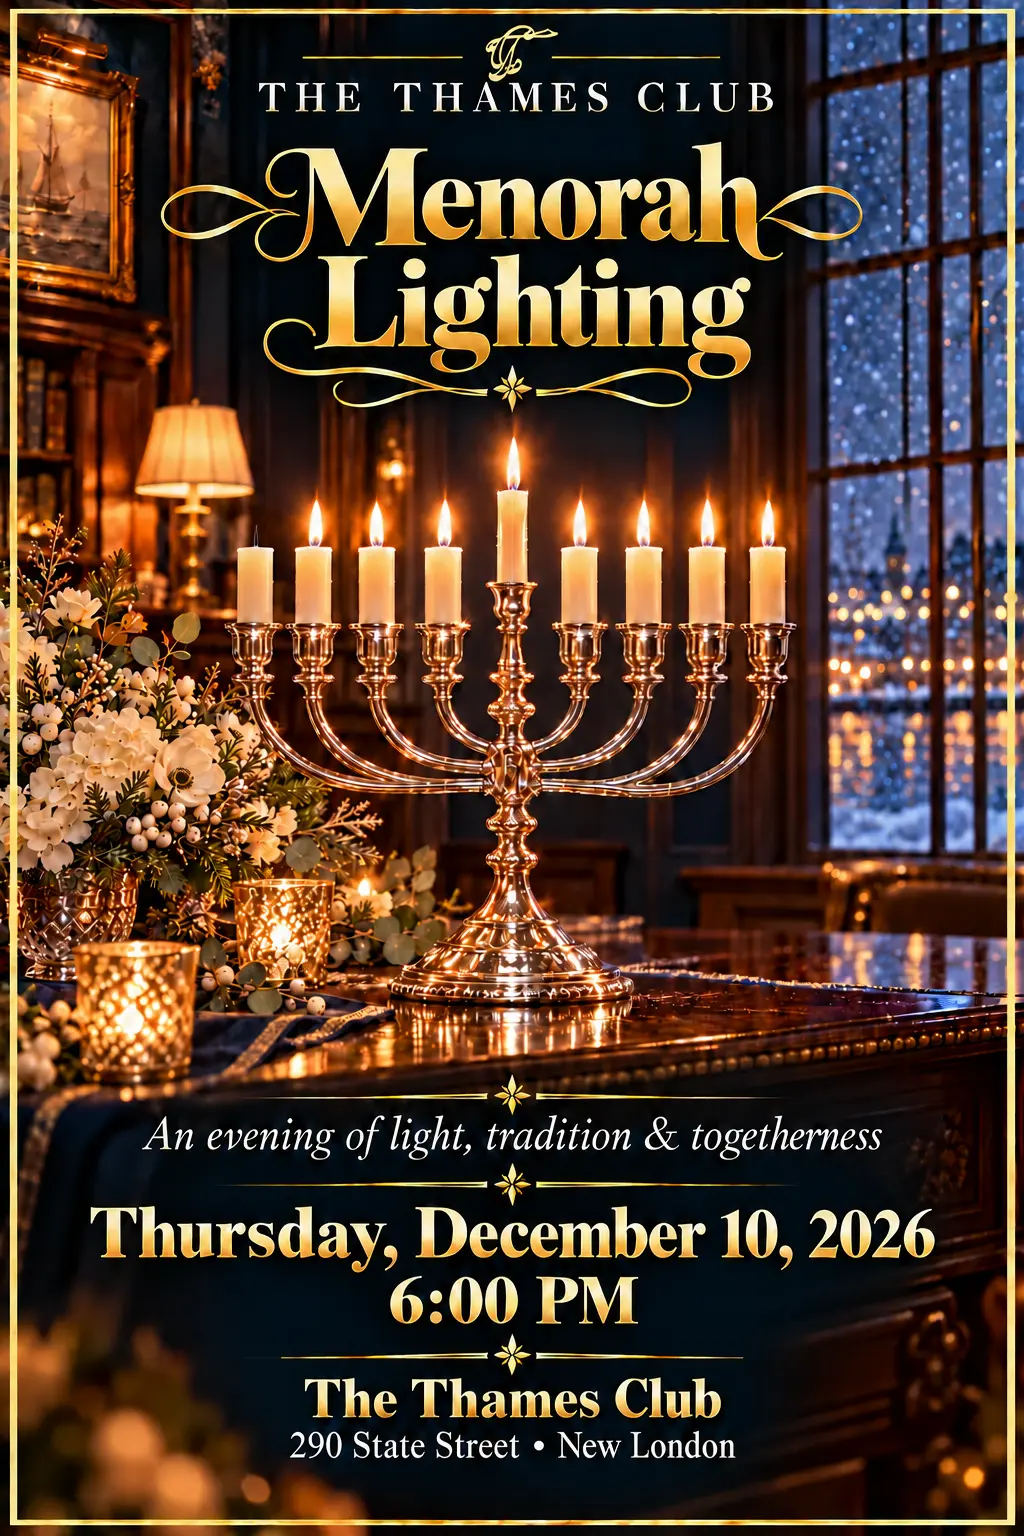
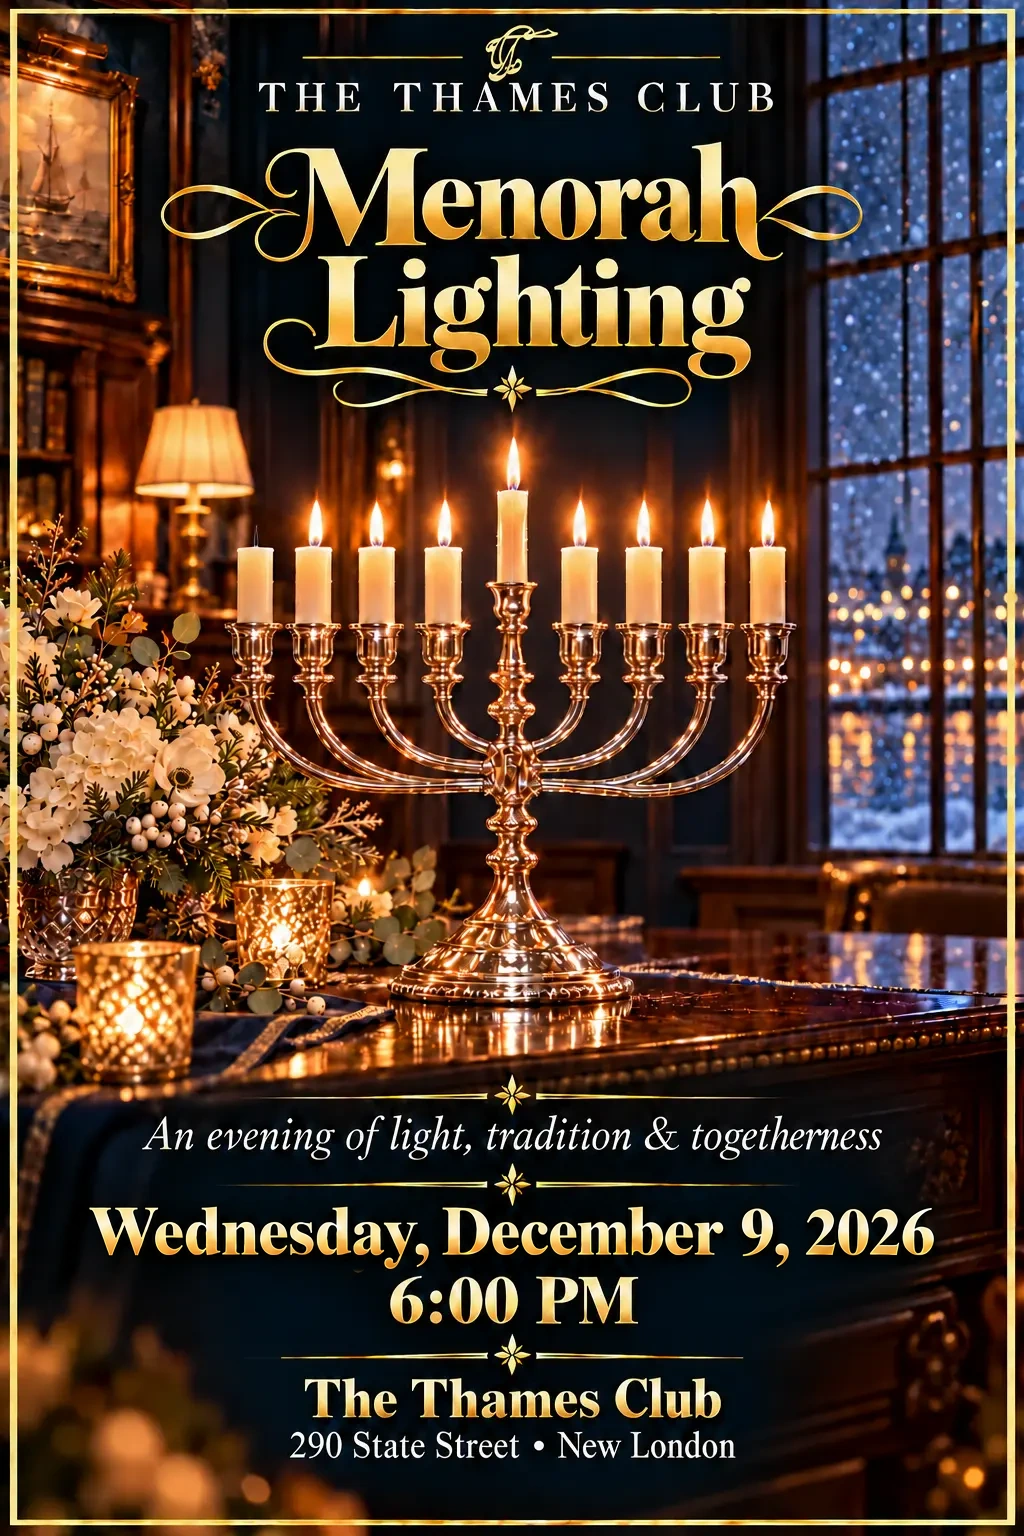
Move Menorah Lighting flyer and registration to December 9

Changed region(s): [[0.0938, 0.7812, 0.9062, 0.8438]]

diff --git a/events.html b/events.html
@@ -268,9 +268,9 @@ footer a:hover {
           <a class="event-flyer-art" href="images/holiday-dinner-2026-12-05-20261112.webp" target="_blank" rel="noopener noreferrer" aria-label="Open event details and request form"><img src="images/holiday-dinner-2026-12-05-20261112.webp" width="1024" height="1536" alt="Annual Holiday Dinner. Music by Michael Zaitchik." loading="lazy" decoding="async"></a>
           <figcaption><time datetime="2026-12-05">Saturday, December 5 · 5:30 PM</time>Annual Holiday Dinner · Music by Michael Zaitchik</figcaption>
         </figure>
-        <figure class="event-flyer" data-approval="approved" hidden data-reservation='{&quot;id&quot;: &quot;menorah-lighting-2026-12-10&quot;, &quot;title&quot;: &quot;Menorah Lighting&quot;, &quot;event_date&quot;: &quot;2026-12-10&quot;, &quot;event_time&quot;: &quot;6 PM&quot;, &quot;notes&quot;: &quot;Cash bar and complimentary light refreshments. Reservation requirements to be confirmed.&quot;, &quot;reservation_status&quot;: &quot;unknown&quot;}'>
-          <a class="event-flyer-art" href="images/menorah-lighting-2026-12-10.webp?v=gold20261025" target="_blank" rel="noopener noreferrer" aria-label="Open event details and request form"><img src="images/menorah-lighting-2026-12-10.webp?v=gold20261025" width="1024" height="1536" alt="Menorah Lighting — Thursday, December 10 · 6 PM. Cash bar and complimentary light refreshments. Reservation requirements to be confirmed." loading="lazy" decoding="async"></a>
-          <figcaption><time datetime="2026-12-10">Thursday, December 10 · 6 PM</time>Menorah Lighting</figcaption>
+        <figure class="event-flyer" data-approval="approved" hidden data-reservation='{&quot;id&quot;: &quot;menorah-lighting-2026-12-10&quot;, &quot;title&quot;: &quot;Menorah Lighting&quot;, &quot;event_date&quot;: &quot;2026-12-09&quot;, &quot;event_time&quot;: &quot;6 PM&quot;, &quot;notes&quot;: &quot;Cash bar and complimentary light refreshments. Reservation requirements to be confirmed.&quot;, &quot;reservation_status&quot;: &quot;unknown&quot;}'>
+          <a class="event-flyer-art" href="images/menorah-lighting-2026-12-09.webp" target="_blank" rel="noopener noreferrer" aria-label="Open event details and request form"><img src="images/menorah-lighting-2026-12-09.webp" width="1024" height="1536" alt="Menorah Lighting — Wednesday, December 9 · 6 PM. Cash bar and complimentary light refreshments. Reservation requirements to be confirmed." loading="lazy" decoding="async"></a>
+          <figcaption><time datetime="2026-12-09">Wednesday, December 9 · 6 PM</time>Menorah Lighting</figcaption>
         </figure>
         <figure class="event-flyer" data-approval="approved" hidden data-reservation='{&quot;id&quot;:&quot;holiday-trivia-2026-12-11&quot;,&quot;title&quot;:&quot;Holiday-Themed Trivia Night&quot;,&quot;event_date&quot;:&quot;2026-12-11&quot;,&quot;event_time&quot;:&quot;5:30 PM&quot;,&quot;notes&quot;:&quot;Dinner: Shepherd’s Pie. Dessert: Holiday Cookies.&quot;,&quot;price&quot;:&quot;$35++ per person&quot;,&quot;reservation_status&quot;:&quot;unknown&quot;}'>
           <a class="event-flyer-art" href="images/holiday-trivia-2026-12-11-20261112.webp" target="_blank" rel="noopener noreferrer" aria-label="Open event details and request form"><img src="images/holiday-trivia-2026-12-11-20261112.webp" width="1024" height="1536" alt="Holiday-Themed Trivia Night. Dinner: Shepherd’s Pie. Dessert: Holiday Cookies. $35++ per person" loading="lazy" decoding="async"></a>
@@ -404,7 +404,7 @@ footer a:hover {
     loadEvents();
   </script>
 <script defer src="reservation-tracking.js?v=20261024-submit1"></script>
-<script defer src="reservation-request.js?v=20261117-sweater"></script>
+<script defer src="reservation-request.js?v=20261124-menorah"></script>
 <script>(()=>{const refresh=()=>{const parts=new Intl.DateTimeFormat('en-US',{timeZone:'America/New_York',year:'numeric',month:'2-digit',day:'2-digit'}).formatToParts(new Date());const today=['year','month','day'].map(k=>parts.find(p=>p.type===k).value).join('-');document.querySelectorAll('[data-dining-end]').forEach(n=>n.hidden=n.dataset.diningEnd<today)};refresh();setInterval(refresh,60000)})();</script>
 </body>
 </html>

diff --git a/reservation-request.js b/reservation-request.js
@@ -87,7 +87,7 @@
     'thanksgiving-2026-11-19': {title:'Thanksgiving Dinner & Game of Chance',date:'2026-11-19',time:'5:30 PM',notes:'Tables of players rolling dice before a traditional Thanksgiving dinner.'},
     'holiday-spectacular-talk-2026-12-02': {"title": "Holiday Spectacular — ECSO Concert Talk", "date": "2026-12-02", "time": "2 PM", "notes": "Cash bar and complimentary snacks. Preview of the separate December 5 concert at 3 PM at the Garde Arts Center.", "image": "images/holiday-spectacular-talk-2026-12-02.webp?v=gold20261025", "reservationStatus": "unknown"},
     'holiday-dinner-2026-12-05': {"title":"Annual Holiday Dinner","date":"2026-12-05","time":"5:30 PM","notes":"Music by Michael Zaitchik.","image":"images/holiday-dinner-2026-12-05-20261112.webp"},
-    'menorah-lighting-2026-12-10': {"title": "Menorah Lighting", "date": "2026-12-10", "time": "6 PM", "notes": "Cash bar and complimentary light refreshments. Reservation requirements to be confirmed.", "image": "images/menorah-lighting-2026-12-10.webp?v=gold20261025", "reservationStatus": "unknown"},
+    'menorah-lighting-2026-12-10': {"title": "Menorah Lighting", "date": "2026-12-09", "time": "6 PM", "notes": "Cash bar and complimentary light refreshments. Reservation requirements to be confirmed.", "image": "images/menorah-lighting-2026-12-09.webp", "reservationStatus": "unknown"},
     'holiday-trivia-2026-12-11': {"title":"Holiday-Themed Trivia Night","date":"2026-12-11","time":"5:30 PM","notes":"Dinner: Shepherd’s Pie. Dessert: Holiday Cookies.","image":"images/holiday-trivia-2026-12-11-20261112.webp","price":"$35++ per person","reservationStatus":"unknown"},
     'ugly-sweater-2026-12-18': {"title":"Ugly Sweater & Holiday Carol-oke","date":"2026-12-18","time":"5:30 PM","notes":"Heavy Appetizers and Holiday Cookies Provided.","image":"images/ugly-sweater-2026-12-18-20261117.jpg","price":"$25++ per person","reservationStatus":"unknown","meals":["Heavy appetizers and holiday cookies"]},
     'new-years-eve-2026-12-31': {"title":"New Year’s Eve — An Evening on the Orient Express","date":"2026-12-31","time":"5:30 PM","notes":"A dining journey through Paris, Budapest and Vienna, with wine pairings with each country. Music by Michael Zaitchik. Black tie optional.","image":"images/new-years-eve-2026-12-31-20261112.webp","reservationStatus":"unknown","price":"$100++ per person"}
